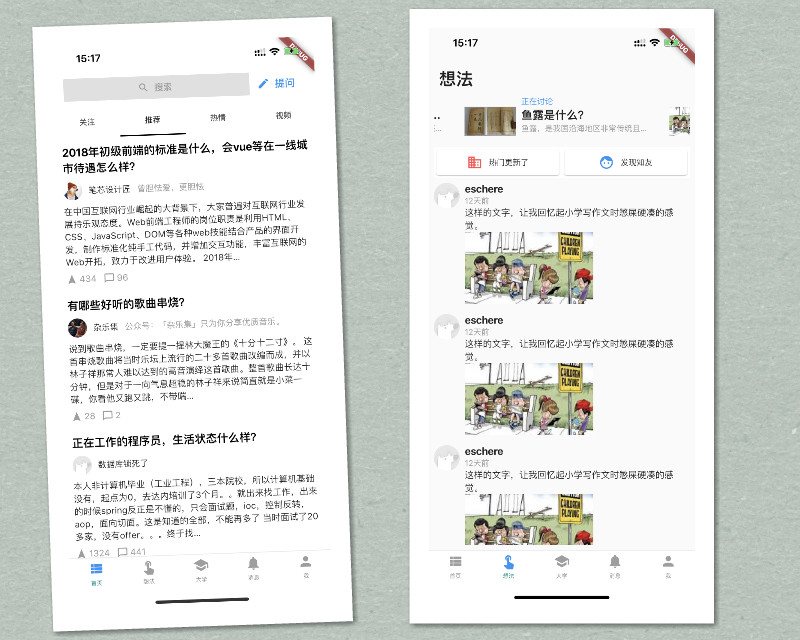
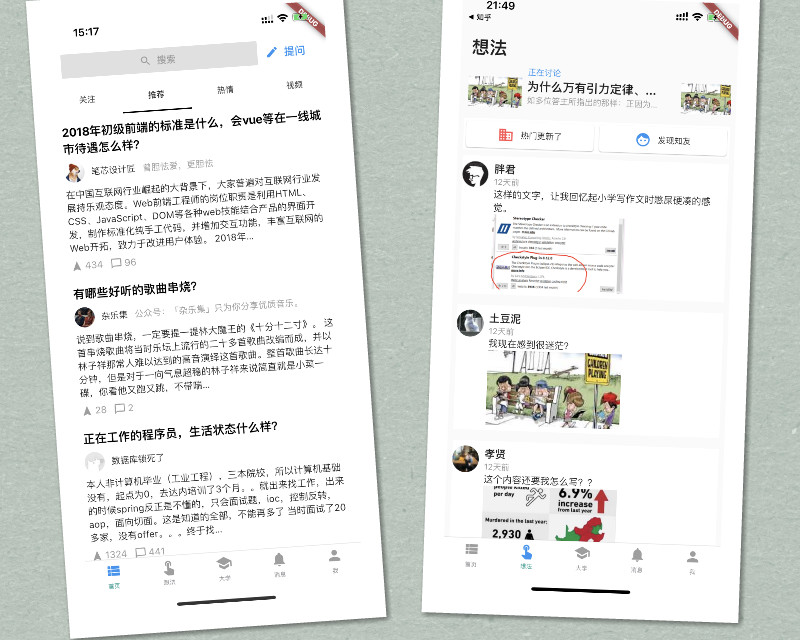
update readme

diff --git a/lib/idea/idea_header.dart b/lib/idea/idea_header.dart
@@ -15,50 +15,53 @@ class IdeaHeader extends StatefulWidget {
 class _IdeaHeaderState extends State<IdeaHeader> {
   @override
   Widget build(BuildContext context) {
-    return Container(
-      child: Column(
-        children: <Widget>[
-          Padding(
-            padding: const EdgeInsets.all(8.0),
-            child: Row(
+    return Padding(
+      padding: const EdgeInsets.only(top: 8.0, left: 8.0, right: 8.0, bottom: 0),
+      child: Container(
+        child: Column(
+          children: <Widget>[
+            Padding(
+              padding: const EdgeInsets.all(8.0),
+              child: Row(
+                children: <Widget>[
+                  Text(
+                    "想法",
+                    style: TextStyle(fontSize: 30.0, fontWeight: FontWeight.bold),
+                  ),
+                ],
+              ),
+            ),
+            IdeaBanner(widget.topics),
+            Row(
+              mainAxisAlignment: MainAxisAlignment.spaceBetween,
               children: <Widget>[
-                Text(
-                  "想法",
-                  style: TextStyle(fontSize: 30.0, fontWeight: FontWeight.bold),
+                Expanded(
+                  child: Container(
+                    color: Colors.white,
+                    child: FindCard(
+                      icon: Icon(
+                        Icons.business,
+                        color: Colors.redAccent,
+                      ),
+                      title: "热门更新了",
+                    ),
+                  ),
+                ),
+                Expanded(
+                  child: Container(
+                    color: Colors.white,
+                    child: FindCard(
+                      icon: Icon(
+                        Icons.face,
+                        color: Colors.blue,
+                      ),                    title: "发现知友",
+                    ),
+                  ),
                 ),
               ],
-            ),
-          ),
-          IdeaBanner(widget.topics),
-          Row(
-            mainAxisAlignment: MainAxisAlignment.spaceBetween,
-            children: <Widget>[
-              Expanded(
-                child: Container(
-                  color: Colors.white,
-                  child: FindCard(
-                    icon: Icon(
-                      Icons.business,
-                      color: Colors.redAccent,
-                    ),
-                    title: "热门更新了",
-                  ),
-                ),
-              ),
-              Expanded(
-                child: Container(
-                  color: Colors.white,
-                  child: FindCard(
-                    icon: Icon(
-                      Icons.face,
-                      color: Colors.blue,
-                    ),                    title: "发现知友",
-                  ),
-                ),
-              ),
-            ],
-          )
-        ],
+            )
+          ],
+        ),
       ),
     );
   }

diff --git a/lib/idea/idea_list.dart b/lib/idea/idea_list.dart
@@ -35,10 +35,12 @@ class IdeaListItem extends StatelessWidget {
 
   @override
   Widget build(BuildContext context) {
-    return Container(
-      child: Row(
-        crossAxisAlignment: CrossAxisAlignment.start,
-        children: <Widget>[
+    return Padding(
+      padding: const EdgeInsets.all(8.0),
+      child: Container(
+        color: Colors.white,
+        child:
+            Row(crossAxisAlignment: CrossAxisAlignment.start, children: <Widget>[
           Padding(
             padding: const EdgeInsets.only(top: 8.0),
             child: CircleAvatar(
@@ -74,11 +76,15 @@ class IdeaListItem extends StatelessWidget {
                     ),
                   ),
                 ),
-                Image(image: CachedNetworkImageProvider(item.imageurl)),
+                Image(
+                  image: CachedNetworkImageProvider(item.imageurl),
+                  width: 200.0,
+                  height: 112.0,
+                ),
               ],
             ),
           )
-        ]
+        ]),
       ),
     );
   }

diff --git a/lib/idea/Idea_page.dart b/lib/idea/Idea_page.dart
@@ -107,22 +107,19 @@ class _IdeaPageState extends State<IdeaPage> {
   @override
   Widget build(BuildContext context) {
     return Scaffold(
-      body: Padding(
-        padding: const EdgeInsets.all(8.0),
-        child: Stack(children: [
-          RefreshIndicator(
-            child: ListView(
-              controller: scrollController,
-              children: <Widget>[
-                IdeaHeader(topics: topics,),
-                IdeaList(ideas: ideas,)
-              ],
-            ),
-            onRefresh: fetchData,
+      body: Stack(children: [
+        RefreshIndicator(
+          child: ListView(
+            controller: scrollController,
+            children: <Widget>[
+              IdeaHeader(topics: topics,),
+              IdeaList(ideas: ideas,)
+            ],
           ),
-          buildNavigationBar(),
-        ]),
-      ),
+          onRefresh: fetchData,
+        ),
+        buildNavigationBar(),
+      ]),
     );
   }
 }

diff --git a/lib/message/message_page.dart b/lib/message/message_page.dart
@@ -13,6 +13,11 @@ class _MessagePageState extends State<MessagePage> {
 
   List<Message> modules = [];
 
+  @override
+  void initState() {
+    fetchData();
+  }
+
   Future<void> fetchData() async {
 
     var responseJson = await Request.get(action: "message");
@@ -35,7 +40,7 @@ class _MessagePageState extends State<MessagePage> {
         actions: <Widget>[
           FlatButton(
             onPressed: null,
-            child: Icon(Icons.add_alert),
+            child: Icon(Icons.add_alert, color: Colors.blue,),
           )
         ],
       ),

diff --git a/lib/component/cell/me_cell.dart b/lib/component/cell/me_cell.dart
@@ -21,7 +21,7 @@ class MeCell extends StatelessWidget {
               padding: EdgeInsets.symmetric(horizontal: 20),
               child: Row(
                 children: <Widget>[
-                  Icon(icon),
+                  Icon(icon, color: Colors.deepPurpleAccent,),
                   SizedBox(width: 20),
                   Text(title, style: TextStyle(fontSize: 16)),
                   Expanded(child: Container()),

diff --git a/lib/me/web_page.dart b/lib/me/web_page.dart
@@ -25,7 +25,10 @@ class _WebPageState extends State<WebPage> {
             onTap: () {
               Share.share(this.widget.url);
             },
-            child: Icon(Icons.share),
+            child: Padding(
+              padding: const EdgeInsets.all(8.0),
+              child: Icon(Icons.share),
+            ),
           )
         ],
       ),

diff --git a/README.md b/README.md
@@ -8,6 +8,10 @@
 
 
 
+![](./show/show1.gif)
+
+![](./show/show2.gif)
+
 #### 开发环境
 
 ```
